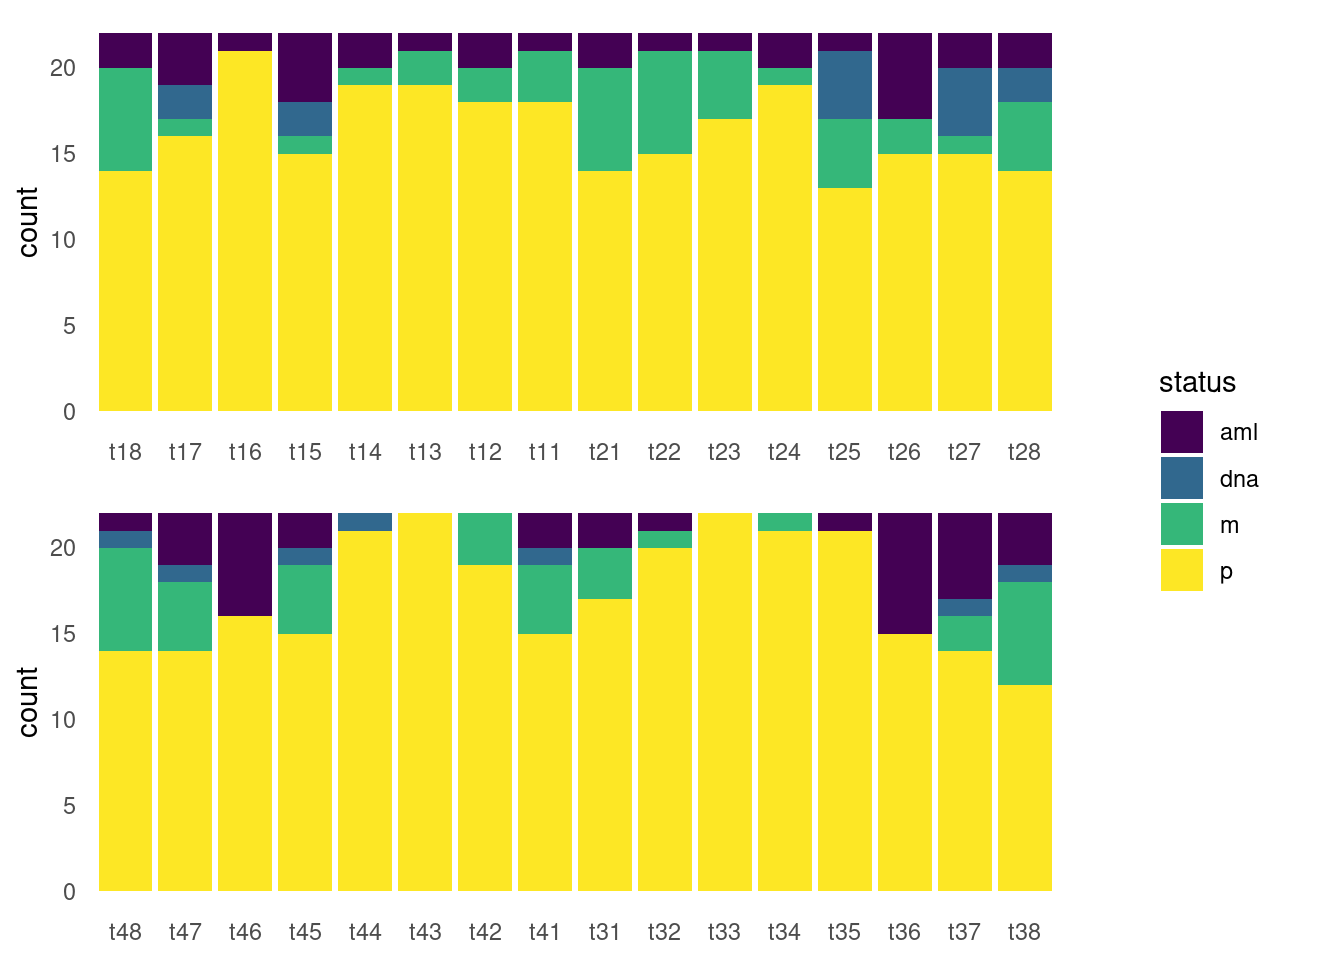
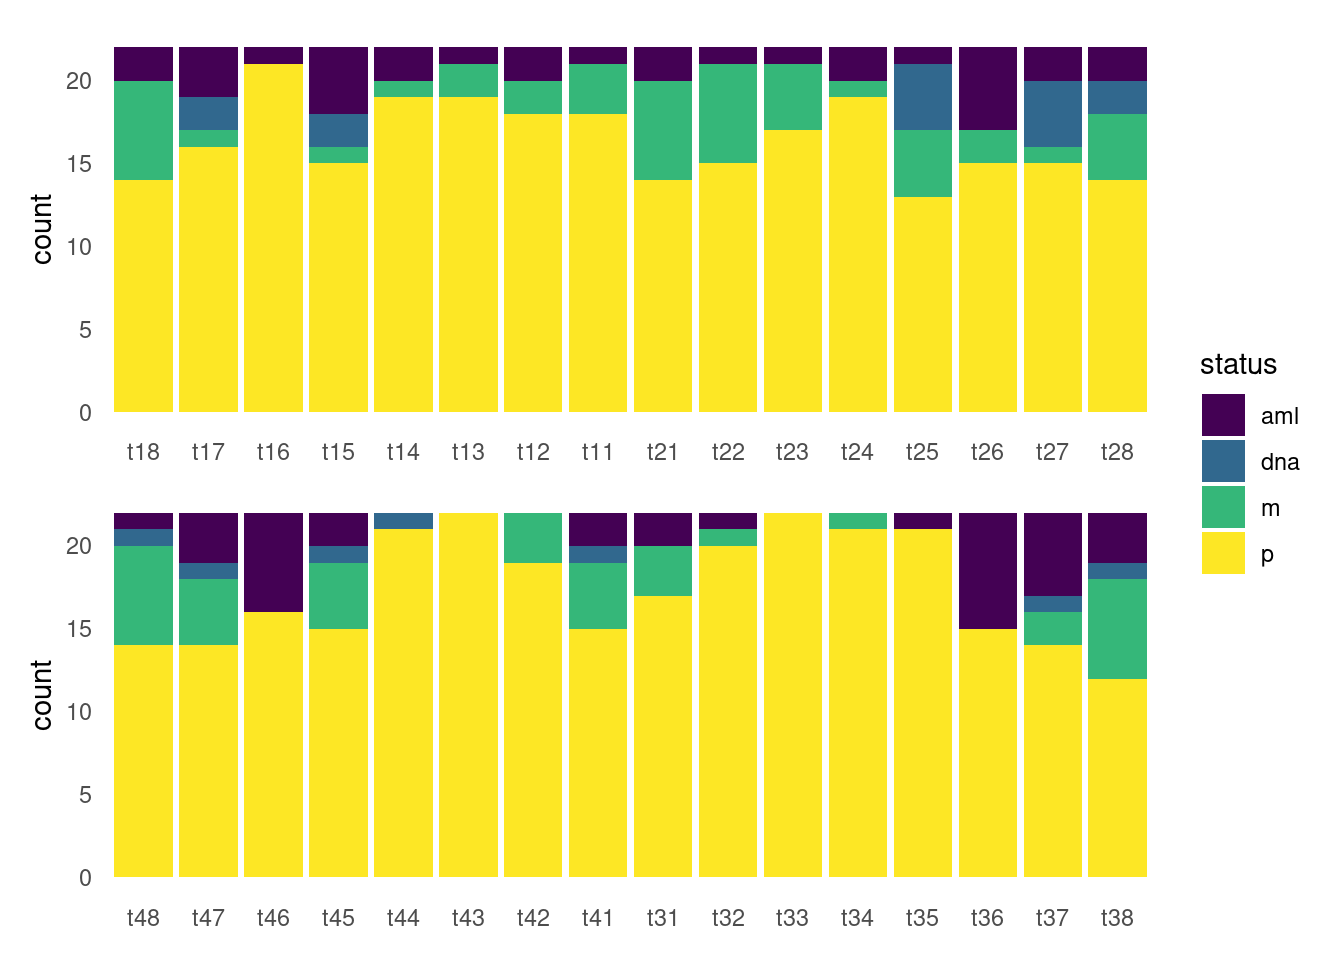
update dental plot tutorial with patchwork package

diff --git a/content/post/dental-inv-plot/index.html b/content/post/dental-inv-plot/index.html
@@ -13,7 +13,7 @@ tags:
   - data visualisation
 categories: []
 subtitle: ''
-summary: "A bioarchaeologist's guide to plotting dental status in a sample of skeletal remains."
+summary: "A bioarchaeologist's guide to plotting dental inventory in a sample of skeletal remains."
 featured: false
 disable_jquery: no
 image:
@@ -32,7 +32,7 @@ course, that you have installed it along with RStudio.</p>
 <p>Required packages:</p>
 <ul>
 <li>tidyverse</li>
-<li>cowplot</li>
+<li>patchwork</li>
 </ul>
 <div id="upload-data" class="section level3">
 <h3>Upload data</h3>
@@ -73,7 +73,7 @@ course, that you have installed it along with RStudio.</p>
 </tbody>
 </table>
 <div class="figure">
-<img src="/img/dental-inv-plot/FDI-tooth-numbering-adult.png" alt="" />
+<img src="./img/FDI-tooth-numbering-adult.png" alt="" />
 <p class="caption"><a href="https://www.careforsmiles.com.au/images/FDI-tooth-numbering-adult.png" class="uri">https://www.careforsmiles.com.au/images/FDI-tooth-numbering-adult.png</a></p>
 </div>
 </div>
@@ -104,7 +104,6 @@ the tooth name, and one with the tooth status.</p>
 mouth the tooth belongs.</p>
 <pre class="r"><code>maxilla &lt;- c(paste0(&quot;t&quot;, 11:18), paste0(&quot;t&quot;, 21:28))
 left &lt;- c(paste0(&quot;t&quot;, 21:28), paste0(&quot;t&quot;, 31:38))
-
 dental_inv_long &lt;- dental_inv %&gt;%
   pivot_longer(t11:t48, names_to = &quot;tooth&quot;, values_to = &quot;status&quot;) %&gt;%
    mutate(region = if_else(tooth %in% maxilla, &quot;maxilla&quot;, &quot;mandible&quot;), 
@@ -126,8 +125,8 @@ upper_order</code></pre>
 ## [13] &quot;t35&quot; &quot;t36&quot; &quot;t37&quot; &quot;t38&quot;</code></pre>
 <p><br></p>
 <p>The plots for the maxilla and mandible are prepared separately, then combined
-with the <strong>cowplot</strong> package.</p>
-<p>First, the plot of the maxillary dentition.</p>
+with the <strong>patchwork</strong> package.</p>
+<p>First, the plot of the maxillary dentition:</p>
 <pre class="r"><code># Plot for the maxillary dentition
 maxilla_pl &lt;- dental_inv_long %&gt;%
   filter(region == &quot;maxilla&quot;) %&gt;% # we only want maxillary teeth
@@ -141,15 +140,7 @@ maxilla_pl &lt;- dental_inv_long %&gt;%
 maxilla_pl</code></pre>
 <p><img src="{{< blogdown/postref >}}index_files/figure-html/prepare-max-1.png" width="672" /></p>
 <p><br></p>
-<p>In order for the plots to have a shared legend, rather than two identical legends,
-we need to extract the legend from the plots using the <code>get_legend</code> function,
-then remove it from the plot.</p>
-<pre class="r"><code>pl_legend &lt;- get_legend(maxilla_pl) # extract legend from plot
-maxilla_pl &lt;- maxilla_pl + theme(legend.position = &quot;none&quot;) # remove legend
-maxilla_pl</code></pre>
-<p><img src="{{< blogdown/postref >}}index_files/figure-html/prepare-legend-1.png" width="672" /></p>
-<p><br></p>
-<p>Then, the plot of the mandibular dentition (without a legend).</p>
+<p>Then, the plot of the mandibular dentition:</p>
 <pre class="r"><code># Plot for the mandibular dentition
 mandible_pl &lt;- dental_inv_long %&gt;%
   filter(region == &quot;mandible&quot;) %&gt;%
@@ -158,25 +149,26 @@ mandible_pl &lt;- dental_inv_long %&gt;%
   geom_bar(position = &quot;stack&quot;) +
   theme_minimal() +
   theme(axis.title.x = element_blank(),
-        panel.grid = element_blank(),
-        legend.position = &quot;none&quot;) +
+        panel.grid = element_blank()) +
   scale_fill_viridis_d()
-
 mandible_pl</code></pre>
 <p><img src="{{< blogdown/postref >}}index_files/figure-html/prepare-mand-1.png" width="672" /></p>
 <p><br></p>
 </div>
 <div id="combine-plots" class="section level3">
 <h3>Combine plots</h3>
-<p>The two dental plots are combined using the <code>plot_grid</code> function in the <strong>cowplot</strong>
-package.</p>
-<pre class="r"><code>plot_comb &lt;- plot_grid(maxilla_pl, mandible_pl, 
-                       ncol = 1) # ncol = 1 so the plots are one on top of the other
-plot_comb</code></pre>
+<p>UPDATE: The two dental plots are easily combined using the <strong>patchwork</strong> package.
+Thanks @<a href="https://twitter.com/jfy133">jfy133</a> for bringing it to my
+attention! (and of course @<a href="https://twitter.com/thomasp85">thomasp85</a>, the
+package developer)</p>
+<p>We will combine them using <code>/</code> instead of <code>+</code>, because we want one on top of the
+other to mimic the maxilla’s and mandible’s position in the mouth:</p>
+<pre class="r"><code>maxilla_pl / mandible_pl</code></pre>
 <p><img src="{{< blogdown/postref >}}index_files/figure-html/combine-pl-1.png" width="672" /></p>
 <p><br></p>
-<p>Then we add the legend to another <code>plot_grid</code> and adjust the width.</p>
-<pre class="r"><code>plot_grid(plot_comb, pl_legend, nrow = 1, rel_widths = c(4,1))</code></pre>
+<p>The <code>plot_layout</code> function allows us to easily combine the identical
+legends.</p>
+<pre class="r"><code>maxilla_pl / mandible_pl + plot_layout(guides = &quot;collect&quot;)</code></pre>
 <p><img src="{{< blogdown/postref >}}index_files/figure-html/final-pl-1.png" width="672" /></p>
 <p><br></p>
 <p>And done! This gives (in my opinion) a nice, intuitive overview of the dental
